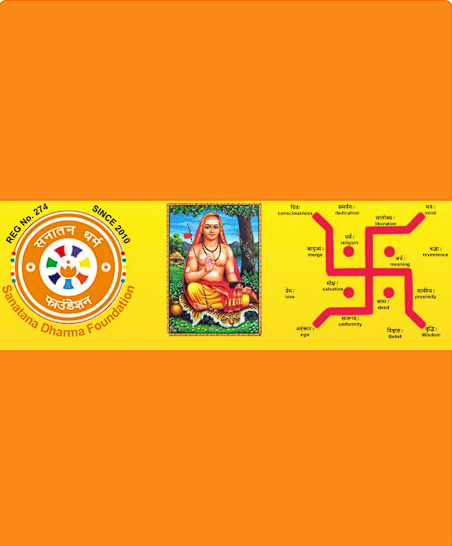
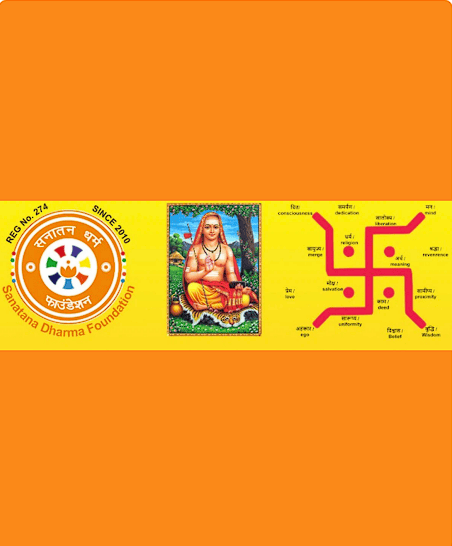
About page img size reduce and add alt text

diff --git a/src/pages/About.jsx b/src/pages/About.jsx
@@ -1,13 +1,13 @@
 import React from "react";
-import swami from "../assets/swami.png";
+import swami from "../assets/swami.webp";
 import aim from "../assets/aim.png";
-import sanatanabout from "../assets/sanatanabout.png";
+import sanatanabout from "../assets/sanatanabout.webp";
 import leaf from "../assets/leaf.png";
-import Build from "./build.png";
-import School from "./School.png";
-import School2 from "./School2.png";
-import har from "./HARIDWAR.png";
-import mall from "./mall.png";
+import Build from "./build.webp";
+import School from "./School.webp";
+import School2 from "./School2.webp";
+import har from "./HARIDWAR.webp";
+import mall from "./mall.webp";
 import Divider from "../components/Divider";
 const About = () => {
   return (
@@ -19,6 +19,7 @@ const About = () => {
         <img
           src={sanatanabout}
           className=" mx-3 w-auto h-[500px] sm:w-[400px] sm:m-auto rounded-xl"
+          alt="About Sanatana Dharma"
         />
         <p className="items-center m-auto w-[90%] sm:w-[50%] p-1 mt-5 mb-5 text-justify rounded-sm text-gray-700 text-xl">
           The Inception of the Sanatana Dharma Foundation revolves around the
@@ -51,6 +52,7 @@ const About = () => {
         <img
           src={swami}
           className="h-[500px] w-auto mx-3 sm:w-[400px] sm:m-auto mt-16 rounded-xl"
+          alt="Swami jii"
         />
         <p className="items-center m-auto w-[90%] sm:w-[50%] p-1 mt-5 mb-5 text-justify rounded-sm text-gray-700 text-xl">
           Mahamadaleshwar Shri Shri 1008 Anant Shri Vibhushit Swami Narayan
@@ -75,6 +77,7 @@ const About = () => {
           <img
             src={aim}
             className="h-[400px] mx-auto sm:mx-0 w-[400px] rounded-xl mr-8 my-auto xl:my-0"
+            alt="Aim of sanatana dharma"
           />
           <ul className="mt-16 ml-8 text-xl sm:mt-0">
             <div className="flex">
@@ -86,28 +89,28 @@ const About = () => {
               </li>
             </div>
             <div className="flex">
-              <img src={leaf} className="h-[33px] w-[35px] mr-4" />
+              <img src={leaf} alt="leaf of sanatana dharma" className="h-[33px] w-[35px] mr-4" />
               <li className="mb-3">
                 Acknowledges the importance of desires and pleasures,
                 encouraging their fulfillment in a balanced and ethical manner.
               </li>
             </div>
             <div className="flex">
-              <img src={leaf} className="h-[33px] w-[35px] mr-4" />
+              <img src={leaf} alt="leaf of sanatana dharma" className="h-[33px] w-[35px] mr-4" />
               <li className="mb-5">
                 Encourages practices such as meditation, yoga, devotion
                 (bhakti), and knowledge (jnana) to realize one's divine nature.
               </li>
             </div>
             <div className="flex">
-              <img src={leaf} className="h-[33px] w-[35px] mr-4" />
+              <img src={leaf} alt="leaf of sanatana dharma" className="h-[33px] w-[35px] mr-4" />
               <li className="mb-5">
                 Regular rituals, pujas (worship ceremonies), and festivals that
                 honor various deities and aspects of the divine.
               </li>
             </div>
             <div className="flex">
-              <img src={leaf} className="h-[33px] w-[35px] mr-4" />
+              <img src={leaf} alt="leaf of sanatana dharma" className="h-[33px] w-[35px] mr-4" />
               <li className="mb-5">
                 Recognizes the validity of multiple paths to the divine and
                 respects different religious and spiritual traditions.
@@ -125,7 +128,7 @@ const About = () => {
         </p>
         <img
           src={Build}
-          alt="build"
+          alt="building"
           className=" mx-3 w-auto h-[500px] sm:w-[600px] sm:m-auto rounded-xl p-5"
         />
         <br></br>
@@ -135,12 +138,12 @@ const About = () => {
         </h3>
         <img
           src={School}
-          alt=""
+          alt="School"
           className=" mx-3 w-auto h-[500px] sm:w-[600px] sm:m-auto rounded-xl p-5"
         />
         <img
           src={School2}
-          alt=""
+          alt="Sanatana dharma school"
           className=" mx-3 w-auto h-[500px] sm:w-[600px] sm:m-auto rounded-xl p-5"
         />
         <Divider />
@@ -149,7 +152,7 @@ const About = () => {
         </h3>
         <img
           src={har}
-          alt=""
+          alt="Swami jii in Haridwar"
           className=" mx-3 w-auto h-[500px] sm:w-[600px] sm:m-auto rounded-xl p-5"
         />
         <Divider />
